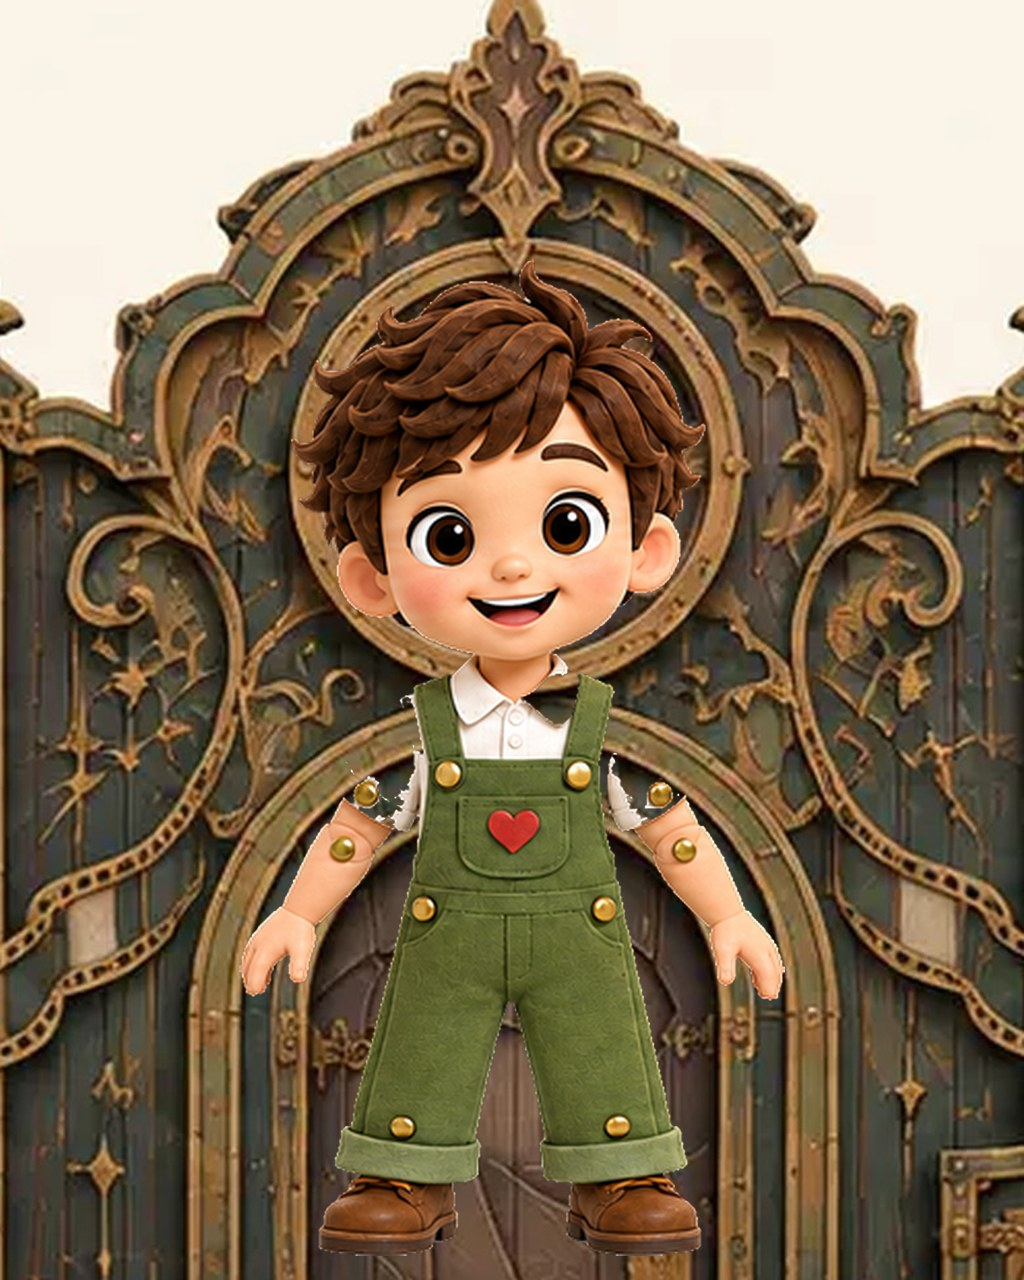
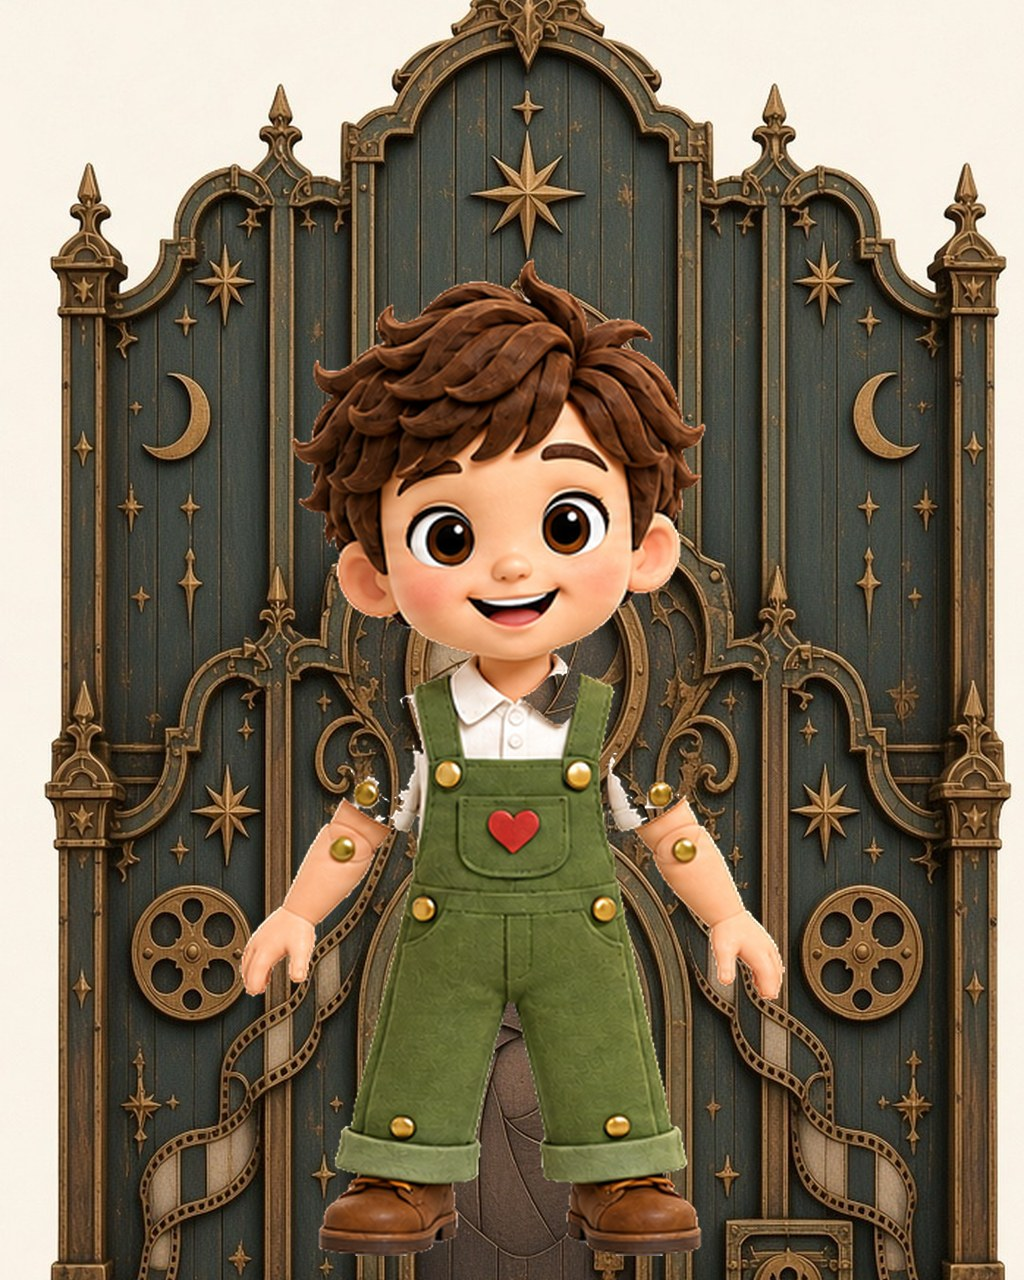
Penny Fever: SNAP strip and Instapic booth branding
Rebuild Felix's souvenir around the SNAP court, shutter wall, and film frames.
Instapic Penny Fever Photo Booth nameplate, OG VIP QR (save.html), garden paper mat,
and teal/brass session chrome. Cache carnival-5.

diff --git a/penny-fever/paper-games/workshop/felix-booth.html b/penny-fever/paper-games/workshop/felix-booth.html
@@ -5,7 +5,7 @@
   <meta name="viewport" content="width=device-width, initial-scale=1, maximum-scale=1, viewport-fit=cover">
   <meta name="robots" content="noindex,nofollow">
   <meta name="apple-mobile-web-app-capable" content="yes">
-  <title>Felix’s Penny Fever Photo Booth</title>
+  <title>Instapic Penny Fever Photo Booth</title>
   <link rel="stylesheet" href="flow-booth.css?v=cam-portrait-1">
   <link rel="stylesheet" href="branding.css?v=awake-vip-qr-3">
   <link rel="stylesheet" href="patches.css?v=cam-portrait-1">
@@ -13,7 +13,7 @@
   <link rel="stylesheet" href="pay_packages_patch.css?v=cam-portrait-1">
   <link rel="stylesheet" href="prepaid_pattern_patch.css?v=cam-portrait-1">
   <link rel="stylesheet" href="event_portal_patch.css?v=cam-portrait-1">
-  <link rel="stylesheet" href="felix-booth.css?v=carnival-4">
+  <link rel="stylesheet" href="felix-booth.css?v=carnival-5">
 </head>
 <body>
   <div id="turn-phone">
@@ -39,7 +39,7 @@
             </div>
             <p class="attract-label"> </p>
               <button class="portal-button" id="attractWakeButton" data-action="wake-mirror">
-              TAP TO WAKE<br>FELIX’S GAME<br>PHOTO BOOTH
+              TAP TO WAKE<br>INSTAPIC<br>PENNY FEVER<br>PHOTO BOOTH
             </button>
             <p class="attract-tagline">✨ Moments Made Magical ✨</p>
           </div>
@@ -257,8 +257,8 @@
 
         <section class="screen" data-screen="BACKGROUNDS">
           <div class="screen-content">
-            <h1 class="title-main">Choose a carnival set</h1>
-            <p class="subtitle" id="bgSubtitle">Felix, Iris and Aura are free. Other park hosts cost 2 pennies from your purse.</p>
+            <h1 class="title-main">Felix’s SNAP set</h1>
+            <p class="subtitle" id="bgSubtitle">Instapic Penny Fever Photo Booth. One SNAP court, ready to play.</p>
             <p class="felix-bg-purse" id="bgPurseNote" aria-live="polite"></p>
             <div id="felix-unlock-confirm" class="felix-penny-confirm" hidden>
               <p id="felix-unlock-confirm-text" class="felix-penny-confirm-text"></p>
@@ -288,7 +288,7 @@
             <img id="carnivalHost" class="carnival-host" alt="">
             <div id="carnivalPlate" class="carnival-plate" hidden>
               <div class="carnival-host-name" id="carnivalHostName">FELIX</div>
-              <div class="carnival-set-title" id="carnivalSetTitle">Instapic Photo Booth</div>
+              <div class="carnival-set-title" id="carnivalSetTitle">Instapic Penny Fever Photo Booth</div>
             </div>
             <div id="liveOverlayTop" class="overlay-top hidden">
               <h1 class="title-main">Your session has started</h1>
@@ -449,9 +449,11 @@
               </div>
               <div class="output-options">
                 <div class="output-group digital-qr-group">
-                  <h2>Game keepsake</h2>
+                  <h2>Join VIP Guest Area</h2>
                   <div class="qr-placeholder has-qr" id="qrPlaceholder">
-                    <img class="qr-image-instapic instapic-digital-qr" src="img/instapic_logo.jpg" alt="Penny Fever game keepsake">
+                    <a href="https://instapic.fun/save.html" target="_blank" rel="noopener noreferrer">
+                      <img class="qr-image-instapic instapic-digital-qr" src="img/instapic_vip.png" width="378" height="378" alt="Scan to join or sign in to the Instapic VIP Guest Area">
+                    </a>
                   </div>
                   <a class="btn btn-primary portal-button" id="felixVipJoin" href="penny-fever-game-vip.html">
                     OPEN GAME VIP
@@ -513,7 +515,7 @@
       </div>
     </div>
   </div>
-  <script src="felix-booth.js?v=carnival-4"></script>
-  <script src="felix-booth-text.js?v=carnival-4"></script>
+  <script src="felix-booth.js?v=carnival-5"></script>
+  <script src="felix-booth-text.js?v=carnival-5"></script>
 </body>
 </html>

diff --git a/penny-fever/paper-games/workshop/felix-booth.css b/penny-fever/paper-games/workshop/felix-booth.css
@@ -1591,3 +1591,66 @@ section.screen.active[data-screen="BACKGROUNDS"] .background-card .bg-set-title 
 .strip-on-paper .strip-composite-preview {
   box-shadow: 0 10px 24px rgba(40, 18, 6, 0.28) !important;
 }
+
+/* carnival-5: SNAP teal / brass session chrome */
+#booth-frame {
+  background:
+    radial-gradient(circle at 20% 10%, rgba(232, 244, 236, 0.55), transparent 40%),
+    radial-gradient(circle at 80% 90%, rgba(42, 74, 70, 0.28), transparent 45%),
+    #e8f0e6;
+}
+#booth-stage {
+  background: radial-gradient(circle at top, #2a3a38 0, #101816 55%, #080c0b 100%);
+}
+section.screen.active[data-screen="ATTRACT"] button.portal-button[data-action="wake-mirror"],
+section.screen.active[data-screen="AWAKE"] button[data-action="enter-mirror"] {
+  box-shadow:
+    0 0 18px rgba(210, 176, 115, 0.7),
+    0 0 48px rgba(58, 110, 102, 0.38),
+    inset 0 0 22px rgba(255, 255, 255, 0.35) !important;
+}
+#carnival-stage {
+  background:
+    radial-gradient(circle at 20% 8%, rgba(255,255,255,0.35), transparent 42%),
+    #e7efe4;
+}
+#carnivalWall {
+  object-fit: contain;
+  object-position: center 42%;
+  background: #e7efe4;
+}
+#booth-stage.carnival-live {
+  background: #e7efe4;
+}
+#booth-stage.carnival-live #video-layer:not(.hidden) {
+  top: 11% !important;
+  left: 14% !important;
+  width: 72% !important;
+  height: 50% !important;
+  border-radius: 36px 36px 88px 88px;
+  box-shadow:
+    0 0 0 7px #d2b073,
+    0 0 0 16px #2a4a44,
+    0 28px 50px rgba(16, 32, 28, 0.45);
+}
+.carnival-plate {
+  color: #1c2624;
+  background: rgba(255, 246, 236, 0.94);
+  border: 3px solid #d2b073;
+}
+.carnival-set-title {
+  color: #3a5a52;
+}
+.strip-on-paper {
+  box-shadow:
+    0 0 0 6px #d2b073,
+    0 0 0 12px #2a4a44,
+    0 18px 36px rgba(16, 32, 28, 0.35);
+}
+.felix-save-row[hidden],
+#bonusLinkRow[hidden] {
+  display: none !important;
+}
+#booth-stage.carnival-live .no-camera-panel {
+  background: rgba(231, 239, 228, 0.42);
+}

diff --git a/penny-fever/paper-games/workshop/felix-booth.js b/penny-fever/paper-games/workshop/felix-booth.js
@@ -687,7 +687,7 @@
       applyTemplateSlotCss();
     } catch (_) {}
     try {
-      const payload = await fetch("backgrounds/carnival-sets.json?v=carnival-4").then((r) => r.json());
+      const payload = await fetch("backgrounds/carnival-sets.json?v=carnival-5").then((r) => r.json());
       carnivalSets = Array.isArray(payload.sets) ? payload.sets : [];
       Object.keys(carnivalById).forEach((key) => { delete carnivalById[key]; });
       carnivalSets.forEach((row) => {
@@ -1712,17 +1712,15 @@
       placeholder.prepend(img);
     }
     img.hidden = false;
-    img.src = "img/instapic_logo.jpg";
-    img.alt = "Penny Fever game keepsake";
+    img.src = "img/instapic_vip.png";
+    img.alt = "Scan to join or sign in to the Instapic VIP Guest Area";
     let hint = placeholder.querySelector(".qr-hint-instapic");
     if (!hint) {
       hint = document.createElement("div");
       hint.className = "qr-hint-instapic";
       placeholder.appendChild(hint);
     }
-    hint.textContent = code
-      ? "This game code is stored in Penny Fever Game VIP on this browser."
-      : "Your Penny Fever game code is being saved.";
+    hint.textContent = "Scan to join Instapic VIP · instapic.fun/save";
   }
 
   function paintDigitalVipJoin() {

diff --git a/penny-fever/paper-games/catalogue.js b/penny-fever/paper-games/catalogue.js
@@ -5,7 +5,7 @@ const rows = [
   ['love','Rosalie','Love Tester','Write the names. Count the letters. Add them down.'],
   ['curios','Digby','Digger’s Vault','Aim the claw. Drop on a glass capsule. Catch Digby’s curios.'],
   ['lookup','Celeste','A Little Starlight','Turn brass glasses to wake constellations.'],
-  ['snap','Felix','Instapic Photo Booth','Webcam Try, then the website bonus preview. Game-only. Not the Darwin machines.', 'workshop/felix-booth.html?v=center-1'],
+  ['snap','Felix','Instapic Penny Fever Photo Booth','Webcam Try, then the website bonus preview. Game-only. Not the Darwin machines.', 'workshop/felix-booth.html?v=carnival-5'],
   ['whisper','Willa','Whisper Run','Read the secret. Cross the board. Pick the phrase you remember.'],
   ['ball-toss','Bess','Impossible Plates','Three balls, a barely-fit plate. Pull back and throw clean through.'],
   ['coin-pusher','Copper','Copper Falls','Every penny leaves its mark. Push the unique over the edge.'],

diff --git a/penny-fever/paper-games/workshop/felix-booth-text.js b/penny-fever/paper-games/workshop/felix-booth-text.js
@@ -1,5 +1,5 @@
 (function () {
-  const SRC = "felix-booth-text.json?v=carnival-4";
+  const SRC = "felix-booth-text.json?v=carnival-5";
 
   function familyFromFile(file) {
     return String(file || "").replace(/\.[a-z0-9]+$/i, "") || "sans-serif";
